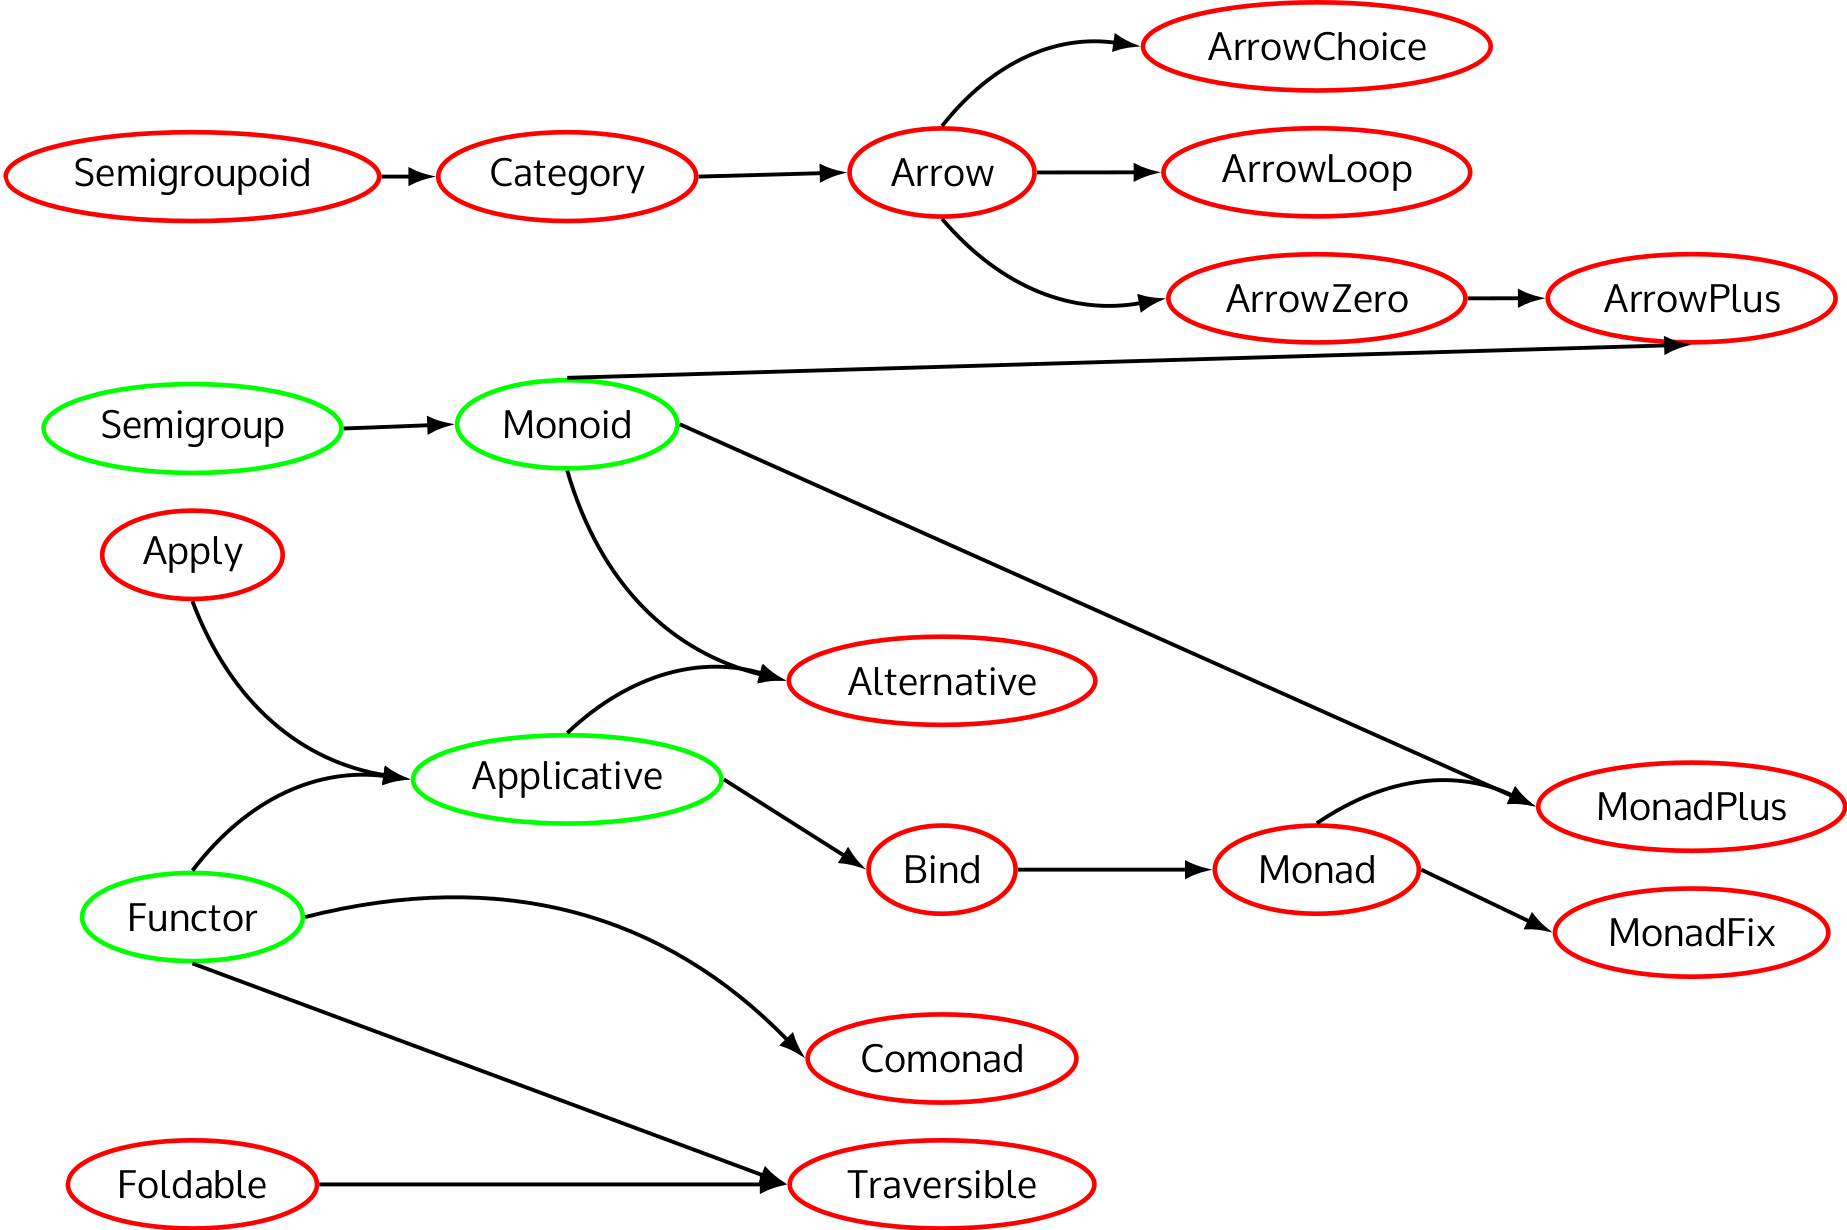
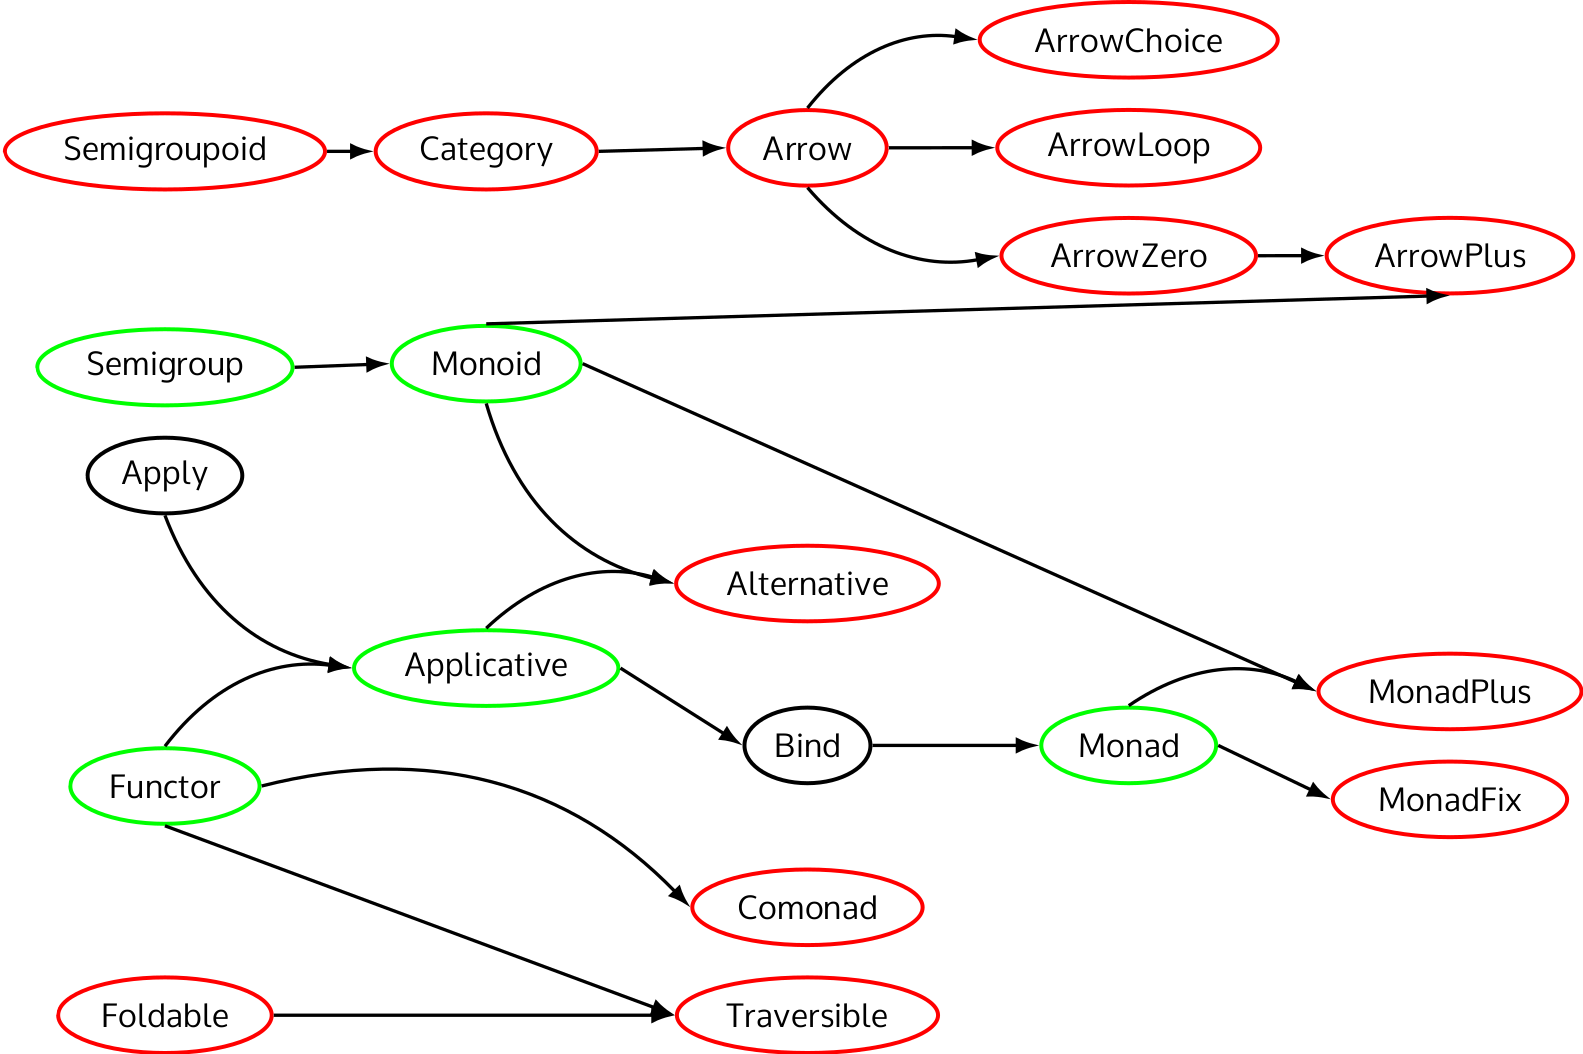
init apply, monad, bind

diff --git a/doc/diagram.tex b/doc/diagram.tex
@@ -14,6 +14,7 @@
   [nodes={draw, ellipse, very thick, text=black, minimum size=0.8cm}, arrows={-Latex[length=1mm,width=0.7mm]}, level distance=3.4cm, grow'=right, sibling distance=0.3cm, scale=0.4]
   \tikzset{top/.style={color=red, text=black}}
   \tikzset{planned/.style={color=red, text=black}}
+  \tikzset{half/.style={color=black, text=black}}
   \tikzset{done/.style={color=green, text=black}}
   \tikzset{root/.style={minimum size=0mm, minimum width=0mm, inner sep=0mm, outer sep=0mm, level distance=0mm}}
   \tikzset{level 1/.style={level distance=1.5cm}}
@@ -29,12 +30,12 @@
           [.\node [planned] (AS) {ArrowPlus};]]]]]
   [.\node [done] (SG) {Semigroup};
     [.\node [done] (MD) {Monoid};]]
-  [.\node [planned] (AY) {Apply}; ]
+  [.\node [half] (AY) {Apply}; ]
   [.\node [done] (FU) {Functor};
     [.\node [done] (AP) {Applicative};
       [.\node [planned] (AT) {Alternative}; ]
-      [.\node [planned] (BI) {Bind};
-        [.\node [planned] (MO) {Monad};
+      [.\node [half] (BI) {Bind};
+        [.\node [done] (MO) {Monad};
           [.\node [planned] (MP) {MonadPlus}; ]
           [.\node [planned] (MF) {MonadFix};  ]]]]
     [.\node[root] (E1) {}; [.\node [planned] (CO) {Comonad}; ]]]

diff --git a/doc/README.md b/doc/README.md
@@ -1,1 +1,1 @@
-To recreate the diagram, run `gimp diagram.pdf`, import at 700ppi, export as png.
+To recreate the diagram, run `gimp diagram.pdf`, import at 600ppi, export as png.
